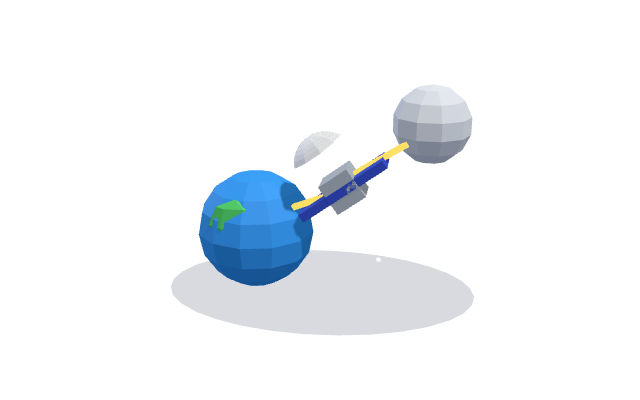
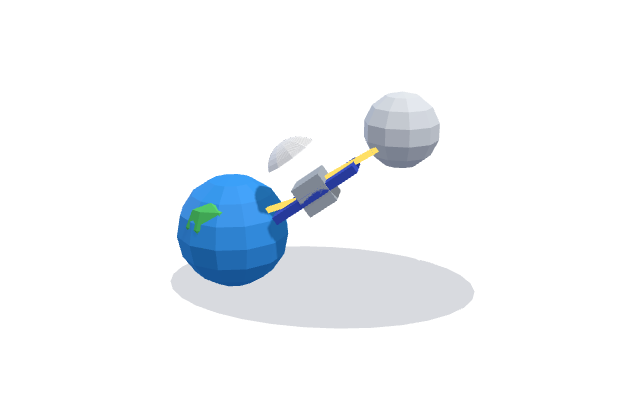
Add 화투 짝맞추기: big hand-drawn hwatu cards, preview, hints, gentle timer

diff --git a/hwatu.html b/hwatu.html
@@ -1,0 +1,220 @@
+<!doctype html>
+<html lang="ko">
+<head>
+<meta charset="utf-8">
+<meta name="viewport" content="width=device-width,initial-scale=1,maximum-scale=1,user-scalable=no">
+<title>화투 짝맞추기</title>
+<script src="common.js?v=19"></script>
+<style>
+  html,body{margin:0;height:100%;overflow:hidden;background:#1f4d2b;
+    user-select:none;-webkit-user-select:none;touch-action:manipulation;-webkit-tap-highlight-color:transparent}
+  canvas{display:block}
+  .hud-score{font-size:56px}
+  #bar{position:fixed;left:50%;transform:translateX(-50%);top:max(108px,calc(env(safe-area-inset-top) + 100px));z-index:3;display:flex;gap:10px;align-items:center;pointer-events:none}
+  #bar .pill{font:20px "Jua",sans-serif}
+  #time{min-width:92px;text-align:center} #time.low{background:#ff6b6b;color:#fff}
+  #hint{position:fixed;right:max(16px,env(safe-area-inset-right));bottom:max(18px,env(safe-area-inset-bottom));z-index:4;border:0;border-radius:18px;padding:14px 20px;font:22px "Jua",sans-serif;background:#ffd43b;color:#5c3a00;box-shadow:0 5px 0 #c98a00;cursor:pointer}
+  #hint:active{transform:translateY(3px);box-shadow:0 2px 0 #c98a00} #hint:disabled{opacity:.4}
+  #say{position:fixed;left:50%;top:50%;transform:translate(-50%,-50%);z-index:5;pointer-events:none;font:clamp(34px,9vw,60px) "Jua",sans-serif;color:#fff;text-shadow:0 4px 0 #8b1e1e,0 0 24px rgba(0,0,0,.4);opacity:0;white-space:nowrap}
+  #say.show{animation:sy 1.2s ease-out}
+  @keyframes sy{0%{opacity:0;transform:translate(-50%,-50%) scale(1.6)}15%{opacity:1;transform:translate(-50%,-50%) scale(1)}80%{opacity:1}100%{opacity:0}}
+</style>
+</head>
+<body>
+<div class="hud">
+  <div id="score" class="hud-score">0<small>점</small></div>
+</div>
+<div id="bar" class="hud-ctl"><span class="pill" id="stage">1단계</span><span class="pill dark" id="time">⏱ 60</span><span class="pill" id="left">남은 짝 6</span></div>
+<button id="hint" class="hud-ctl">💡 힌트 3</button>
+<div id="say"></div>
+<div class="screen" id="center"></div>
+
+<script type="module">
+import * as THREE from 'https://cdn.jsdelivr.net/npm/three@0.160.0/build/three.module.js';
+const $ = id => document.getElementById(id);
+const shuffle = a => { for (let i = a.length - 1; i > 0; i--) { const j = (Math.random() * (i + 1)) | 0; [a[i], a[j]] = [a[j], a[i]]; } return a; };
+
+// ---------- our own hand-drawn hwatu faces (12 months, two variants each) ----------
+const MONTHS = [
+  { n: 1, name: '송학', col: '#2b8a3e' }, { n: 2, name: '매조', col: '#e64980' }, { n: 3, name: '벚꽃', col: '#f783ac' }, { n: 4, name: '흑싸리', col: '#343a40' },
+  { n: 5, name: '난초', col: '#7048e8' }, { n: 6, name: '모란', col: '#c92a2a' }, { n: 7, name: '홍싸리', col: '#e03131' }, { n: 8, name: '공산', col: '#495057' },
+  { n: 9, name: '국화', col: '#f59f00' }, { n: 10, name: '단풍', col: '#d9480f' }, { n: 11, name: '오동', col: '#1c1c24' }, { n: 12, name: '비', col: '#1971c2' },
+];
+const W = 256, H = 384;
+function flower(g, x, y, r, petal, center, n = 5) {
+  g.fillStyle = petal; for (let i = 0; i < n; i++) { const a = i / n * Math.PI * 2; g.beginPath(); g.ellipse(x + Math.cos(a) * r * .55, y + Math.sin(a) * r * .55, r * .5, r * .32, a, 0, 7); g.fill(); }
+  g.fillStyle = center; g.beginPath(); g.arc(x, y, r * .25, 0, 7); g.fill();
+}
+function branch(g, pts, w = 10, c = '#5c3a21') { g.strokeStyle = c; g.lineWidth = w; g.lineCap = 'round'; g.beginPath(); g.moveTo(...pts[0]); for (const p of pts.slice(1)) g.lineTo(...p); g.stroke(); }
+function ribbon(g, txt) {   // red poem ribbon (띠) for the second variant
+  g.save(); g.translate(150, 70); g.rotate(.12); g.fillStyle = '#e03131'; g.fillRect(-18, 0, 36, 170); g.fillStyle = '#fff3bf'; g.font = 'bold 26px serif'; g.textAlign = 'center';
+  [...txt].forEach((ch, i) => g.fillText(ch, 0, 34 + i * 34)); g.restore();
+}
+function drawFace(m, v) {
+  const c = document.createElement('canvas'); c.width = W; c.height = H; const g = c.getContext('2d');
+  g.fillStyle = '#1c1c24'; g.fillRect(0, 0, W, H); g.fillStyle = '#fbf3df'; g.fillRect(10, 10, W - 20, H - 20);
+  const k = m.n;
+  if (k === 1) { g.fillStyle = '#e03131'; g.beginPath(); g.arc(180, 80, 42, 0, 7); g.fill(); branch(g, [[60, 300], [90, 200], [80, 120]], 14); for (let i = 0; i < 4; i++) { g.fillStyle = i % 2 ? '#2b8a3e' : '#37b24d'; g.beginPath(); g.moveTo(40 + i * 10, 250 - i * 45); g.lineTo(150 + i * 5, 250 - i * 45); g.lineTo(95, 200 - i * 45); g.fill(); } }
+  if (k === 2) { branch(g, [[30, 300], [120, 200], [210, 120]], 12); [[120, 200], [170, 150], [80, 250], [205, 115]].forEach(([x, y]) => flower(g, x, y, 34, '#f06595', '#ffd43b')); if (!v) { g.fillStyle = '#fab005'; g.beginPath(); g.ellipse(80, 130, 30, 18, -.4, 0, 7); g.fill(); } }
+  if (k === 3) { for (let i = 0; i < 9; i++) flower(g, 50 + (i % 3) * 75, 90 + Math.floor(i / 3) * 60, 30, '#ffc9de', '#f783ac'); g.fillStyle = '#c92a2a'; g.fillRect(30, 260, 196, 50); g.fillStyle = '#ffd43b'; for (let i = 0; i < 5; i++) g.fillRect(40 + i * 38, 270, 18, 30); }
+  if (k === 4) { branch(g, [[200, 30], [190, 140]], 8, '#343a40'); for (let i = 0; i < 7; i++) { g.fillStyle = '#212529'; g.beginPath(); g.ellipse(90 + (i % 2) * 60, 70 + i * 34, 30, 12, .6, 0, 7); g.fill(); } }
+  if (k === 5) { for (let i = 0; i < 4; i++) { g.strokeStyle = '#2f9e44'; g.lineWidth = 8; g.beginPath(); g.moveTo(60 + i * 45, 320); g.quadraticCurveTo(50 + i * 45, 200, 80 + i * 40, 90); g.stroke(); } [[90, 120], [170, 160]].forEach(([x, y]) => flower(g, x, y, 38, '#845ef7', '#ffd43b', 3)); }
+  if (k === 6) { flower(g, 128, 160, 80, '#e03131', '#ffd43b', 6); flower(g, 128, 160, 46, '#ff8787', '#ffd43b', 6); for (const s of [-1, 1]) { g.fillStyle = '#2b8a3e'; g.beginPath(); g.ellipse(128 + s * 70, 270, 50, 22, s * .5, 0, 7); g.fill(); } }
+  if (k === 7) { branch(g, [[40, 330], [120, 200], [190, 80]], 7, '#862e9c'); for (let i = 0; i < 12; i++) { g.fillStyle = '#e03131'; g.beginPath(); g.arc(60 + Math.random() * 140, 80 + Math.random() * 200, 10, 0, 7); g.fill(); } }
+  if (k === 8) { g.fillStyle = v ? '#ced4da' : '#e9ecef'; g.fillRect(10, 10, W - 20, 200); g.fillStyle = '#fff'; g.beginPath(); g.arc(128, 110, 64, 0, 7); g.fill(); g.strokeStyle = '#adb5bd'; g.lineWidth = 4; g.stroke(); g.fillStyle = '#1c1c24'; g.beginPath(); g.moveTo(10, 260); g.quadraticCurveTo(128, 160, 246, 260); g.lineTo(246, 374); g.lineTo(10, 374); g.fill(); }
+  if (k === 9) { [[128, 140, 70], [70, 250, 40], [190, 260, 40]].forEach(([x, y, r]) => { flower(g, x, y, r, '#fab005', '#e8590c', 12); flower(g, x, y, r * .6, '#ffd43b', '#e8590c', 10); }); }
+  if (k === 10) { const leaf = (x, y, s) => { g.fillStyle = '#e8590c'; g.beginPath(); for (let i = 0; i < 5; i++) { const a = -Math.PI / 2 + (i - 2) * .55; g.lineTo(x + Math.cos(a) * s, y + Math.sin(a) * s); g.lineTo(x + Math.cos(a + .27) * s * .45, y + Math.sin(a + .27) * s * .45); } g.lineTo(x, y + s * .3); g.fill(); };
+    [[80, 120, 50], [170, 100, 44], [120, 220, 56], [190, 270, 40], [60, 290, 38]].forEach(p => leaf(...p)); }
+  if (k === 11) { for (let i = 0; i < 3; i++) { g.fillStyle = '#1c1c24'; g.beginPath(); g.ellipse(80 + i * 50, 200 - (i % 2) * 40, 60, 40, i * .4, 0, 7); g.fill(); } g.fillStyle = '#ffd43b'; g.beginPath(); g.arc(180, 300, 20, 0, 7); g.fill(); }
+  if (k === 12) { g.fillStyle = '#4c6ef5'; g.fillRect(10, 10, W - 20, H - 20); g.fillStyle = '#fbf3df'; g.fillRect(10, 250, W - 20, 124); g.strokeStyle = '#2b8a3e'; g.lineWidth = 6; for (let i = 0; i < 6; i++) { g.beginPath(); g.moveTo(40 + i * 35, 20); g.quadraticCurveTo(30 + i * 35, 150, 60 + i * 30, 250); g.stroke(); }
+    g.fillStyle = '#ffd43b'; g.beginPath(); g.arc(120, 250, 46, Math.PI, 0); g.fill(); g.fillRect(118, 250, 4, 60); }
+  if (v && k !== 8 && k !== 12) ribbon(g, ['솔', '매', '벚', '흑', '난', '모', '홍', '공', '국', '단', '오', '비'][k - 1] + '띠');
+  // big month label at the bottom so it's easy to read
+  g.fillStyle = 'rgba(28,28,36,.86)'; g.fillRect(10, H - 74, W - 20, 64); g.fillStyle = '#fff'; g.font = 'bold 40px "Jua", sans-serif'; g.textAlign = 'center'; g.fillText(`${k}월 ${m.name}`, W / 2, H - 28);
+  const tex = new THREE.CanvasTexture(c); tex.colorSpace = THREE.SRGBColorSpace; tex.anisotropy = 4; return tex;
+}
+const backTex = (() => { const c = document.createElement('canvas'); c.width = W; c.height = H; const g = c.getContext('2d'); g.fillStyle = '#7a1414'; g.fillRect(0, 0, W, H); g.fillStyle = '#b22222'; g.fillRect(14, 14, W - 28, H - 28);
+  g.strokeStyle = 'rgba(255,220,180,.25)'; g.lineWidth = 3; for (let i = -H; i < W + H; i += 26) { g.beginPath(); g.moveTo(i, 14); g.lineTo(i + H, H); g.stroke(); }
+  const t = new THREE.CanvasTexture(c); t.colorSpace = THREE.SRGBColorSpace; return t; })();
+const FACES = MONTHS.map(m => [drawFace(m, 0), drawFace(m, 1)]);
+
+// ---------- three: green blanket table, top-down ----------
+const renderer = new THREE.WebGLRenderer({ antialias: true });
+renderer.setPixelRatio(Math.min(devicePixelRatio, 2)); renderer.setSize(innerWidth, innerHeight); renderer.outputColorSpace = THREE.SRGBColorSpace; renderer.shadowMap.enabled = true;
+document.body.appendChild(renderer.domElement);
+const scene = new THREE.Scene(); scene.background = new THREE.Color(0x173d22);
+const camera = new THREE.PerspectiveCamera(40, innerWidth / innerHeight, .1, 100);
+scene.add(new THREE.HemisphereLight(0xffffff, 0x2b5a35, 1.4));
+const key = new THREE.DirectionalLight(0xffffff, 1.3); key.position.set(2, 10, 4); key.castShadow = true; key.shadow.mapSize.set(1024, 1024); Object.assign(key.shadow.camera, { left: -8, right: 8, top: 8, bottom: -8 }); scene.add(key);
+{ const c = document.createElement('canvas'); c.width = c.height = 256; const g = c.getContext('2d'); g.fillStyle = '#2f6b3a'; g.fillRect(0, 0, 256, 256);
+  for (let i = 0; i < 4000; i++) { g.fillStyle = `rgba(${Math.random() < .5 ? '255,255,255' : '0,0,0'},${Math.random() * .06})`; g.fillRect(Math.random() * 256, Math.random() * 256, 2, 2); }
+  const t = new THREE.CanvasTexture(c); t.wrapS = t.wrapT = THREE.RepeatWrapping; t.repeat.set(6, 6);
+  const mat = new THREE.Mesh(new THREE.PlaneGeometry(30, 30), new THREE.MeshStandardMaterial({ map: t, roughness: 1 })); mat.rotation.x = -Math.PI / 2; mat.receiveShadow = true; scene.add(mat); }
+const CW = 1.1, CH = 1.65;
+const edgeMat = new THREE.MeshStandardMaterial({ color: 0x1c1c24 }), backMat = new THREE.MeshStandardMaterial({ map: backTex, roughness: .6 });
+let cards = [];
+function makeCard(month, variant) {
+  const g = new THREE.Group();
+  const m = new THREE.Mesh(new THREE.BoxGeometry(CW, .045, CH), [edgeMat, edgeMat, new THREE.MeshStandardMaterial({ map: FACES[month][variant], roughness: .55 }), backMat, edgeMat, edgeMat]);
+  m.castShadow = true; m.receiveShadow = true; g.add(m); scene.add(g);
+  return { g, m, month, up: false, flipT: 1, from: Math.PI, to: Math.PI, matched: false, lift: 0 };
+}
+function layout(n) {   // columns/rows for n cards, sized to the screen
+  const portrait = innerWidth < innerHeight;
+  const cols = portrait ? (n <= 12 ? 3 : 4) : (n <= 12 ? 4 : n <= 16 ? 4 : n <= 20 ? 5 : 6), rows = Math.ceil(n / cols);
+  return { cols, rows };
+}
+let grid = { cols: 4, rows: 3 };
+function placeCards() {
+  grid = layout(cards.length); const gx = CW + .22, gz = CH + .22;
+  cards.forEach((c, i) => { const col = i % grid.cols, row = Math.floor(i / grid.cols); c.g.position.set((col - (grid.cols - 1) / 2) * gx, 0, (row - (grid.rows - 1) / 2) * gz + .3); });
+  fitCamera();
+}
+function fitCamera() {
+  camera.aspect = innerWidth / innerHeight; camera.updateProjectionMatrix();
+  const w = grid.cols * (CW + .22) + .6, h = grid.rows * (CH + .22) + 3.6, vh = 2 * Math.tan(THREE.MathUtils.degToRad(camera.fov / 2));
+  const d = Math.max(h / vh, w / (vh * camera.aspect)) * 1.04;
+  camera.position.set(0, d, d * .12 - .5); camera.lookAt(0, 0, -.4);   // shift the grid below the HUD
+}
+addEventListener('resize', () => { renderer.setSize(innerWidth, innerHeight); placeCards(); });
+
+// ---------- game ----------
+let state = 'ready', stage = 0, score = 0, timeLeft = 60, open = [], busy = false, pairsLeft = 0, combo = 0, hints = 3, overAt = 0, preview = 0, misses = 0;
+let best = 0; try { best = +localStorage.getItem('hwatu-best') || 0; } catch {}
+const showScreen = html => { $('center').innerHTML = html; $('center').style.display = ''; };
+showScreen(Arcade.titleScreen({ emoji: '🎴', title: '화투 짝맞추기', how: [
+  ['🎴', '같은 <b>달(월)</b> 화투 두 장을 찾아 뒤집어요'],
+  ['👀', '처음 몇 초 동안 모든 패를 보여드려요. 잘 기억하세요!'],
+  ['💡', '막히면 <b>힌트</b> 버튼 (단계마다 3번)'],
+  ['⏱', '시간 안에 다 맞추면 다음 단계. 천천히, 차근차근!'],
+], cta: '시작하기' }));
+const PAIRS = [6, 8, 10, 12, 12];
+function updateHud() {
+  $('score').innerHTML = `${score}<small>점</small>`; $('stage').textContent = `${stage + 1}단계`;
+  $('left').textContent = `남은 짝 ${pairsLeft}`; $('hint').textContent = `💡 힌트 ${hints}`; $('hint').disabled = hints <= 0 || state !== 'playing';
+}
+function say(t) { const e = $('say'); e.textContent = t; e.classList.remove('show'); void e.offsetWidth; e.classList.add('show'); }
+function flip(c, up) { c.from = c.g.rotation.z; c.to = up ? 0 : Math.PI; c.flipT = 0; c.up = up; }
+function setupStage() {
+  cards.forEach(c => scene.remove(c.g)); cards = []; open = []; busy = false; combo = 0; hints = 3;
+  const n = PAIRS[Math.min(stage, PAIRS.length - 1)], months = shuffle([...Array(12).keys()]).slice(0, n);
+  const deck = shuffle(months.flatMap(m => [makeCard(m, 0), makeCard(m, 1)]));
+  cards = deck; pairsLeft = n; placeCards();
+  cards.forEach(c => { c.g.rotation.z = 0; c.up = true; c.to = 0; c.flipT = 1; });   // face up for the preview
+  preview = Math.max(3, 5 - stage * .5); timeLeft = 45 + n * 7 - stage * 4;
+  state = 'preview'; updateHud(); say('잘 보세요! 👀');
+}
+function startPlay() { state = 'playing'; cards.forEach(c => flip(c, false)); Arcade.sfx.whoosh(); updateHud(); say('시작!'); }
+function pick(c) {
+  if (state !== 'playing' || busy || c.up || c.matched) return;
+  flip(c, true); open.push(c); Arcade.sfx.thud(); Arcade.vibrate(15);
+  if (open.length < 2) return;
+  const [a, b] = open; busy = true;
+  if (a.month === b.month) {
+    setTimeout(() => {
+      a.matched = b.matched = true; open = []; busy = false; combo++; pairsLeft--;
+      const pts = 100 + (combo - 1) * 50; score += pts; Arcade.sfx.coin(); Arcade.vibrate([20, 30, 40]);
+      say(combo >= 2 ? `${combo}연속! 착착! +${pts}` : `짝! +${pts}`);
+      if (pairsLeft === 0) stageClear();
+      updateHud();
+    }, 380);
+  } else {
+    misses++; combo = 0;
+    setTimeout(() => { flip(a, false); flip(b, false); open = []; busy = false; Arcade.sfx.tap(); }, 1000);   // a full second to look before they turn back
+  }
+}
+function stageClear() {
+  state = 'clear'; const bonus = Math.round(timeLeft) * 10; score += bonus;
+  Arcade.sfx.fanfare(); Arcade.confetti({ y: innerHeight * .4, count: 90, emoji: ['🎴', '🌸', '🍁', '🌕'] });
+  say(`${stage + 1}단계 성공! 남은 시간 보너스 +${bonus}`); updateHud();
+  setTimeout(() => { stage++; setupStage(); }, 2200);
+}
+function finish() {
+  state = 'over'; overAt = performance.now();
+  const isBest = score > best; if (isBest) { best = score; try { localStorage.setItem('hwatu-best', best); } catch {} }
+  isBest && score > 0 ? Arcade.sfx.fanfare() : Arcade.sfx.fail();
+  const msg = stage >= 4 ? '기억력이 청춘이시네요!' : stage >= 2 ? '아주 잘하셨어요!' : '천천히 다시 해봐요';
+  showScreen(Arcade.resultScreen({ emoji: '🎴', label: '화투 짝맞추기', score, unit: '점', msg, rows: [['도달 단계', `${stage + 1}단계`], ['틀린 횟수', `${misses}번`]], isBest: isBest && score > 0, best }));
+  Arcade.gameOver(score);
+}
+function start() { score = 0; stage = 0; misses = 0; $('center').style.display = 'none'; setupStage(); }
+$('hint').addEventListener('pointerdown', e => {
+  e.stopPropagation(); if (state !== 'playing' || hints <= 0 || busy) return;
+  const rest = cards.filter(c => !c.matched && !c.up); if (!rest.length) return;
+  const m = rest[0].month, pair = rest.filter(c => c.month === m); hints--; updateHud();
+  pair.forEach(c => { c.hint = 1.2; }); Arcade.sfx.ding();
+});
+// picking with a raycaster (generous: the whole card is the target)
+const ray = new THREE.Raycaster(), ndc = new THREE.Vector2();
+addEventListener('pointerdown', e => {
+  if (e.target.closest?.('.arcade-btn, #hint')) return;
+  if (state === 'ready') return start();
+  if (state === 'over') { if (performance.now() - overAt > 1000 && !Arcade.inRun()) start(); return; }
+  ndc.set(e.clientX / innerWidth * 2 - 1, -(e.clientY / innerHeight) * 2 + 1); ray.setFromCamera(ndc, camera);
+  const hit = ray.intersectObjects(cards.map(c => c.m))[0]; if (hit) pick(cards.find(c => c.m === hit.object));
+});
+addEventListener('keydown', e => { if ((e.code === 'Space' || e.code === 'Enter') && (state === 'ready' || state === 'over')) { e.preventDefault(); if (state === 'ready') start(); else if (performance.now() - overAt > 1000 && !Arcade.inRun()) start(); } });
+window.__hwatu = { get state() { return state; }, get cards() { return cards; }, pick, get score() { return score; } };
+
+// idle: a few cards fanned out on the blanket behind the title
+cards = shuffle([...Array(12).keys()]).slice(0, 6).flatMap(m => [makeCard(m, 0), makeCard(m, 1)]); placeCards(); cards.forEach((c, i) => { c.g.rotation.z = i % 3 ? Math.PI : 0; c.to = c.g.rotation.z; });
+
+let last = performance.now();
+function frame(now) {
+  const dt = Math.min(.05, (now - last) / 1000); last = now; const t = now / 1000;
+  if (state === 'preview') { preview -= dt; if (preview <= 0) startPlay(); }
+  if (state === 'playing') { timeLeft -= dt; if (timeLeft <= 0) { timeLeft = 0; finish(); } }
+  $('time').textContent = `⏱ ${Math.ceil(Math.max(0, timeLeft))}`; $('time').classList.toggle('low', state === 'playing' && timeLeft < 10);
+  for (const c of cards) {
+    if (c.flipT < 1) { c.flipT = Math.min(1, c.flipT + dt * 3.2); const e = c.flipT < .5 ? 2 * c.flipT * c.flipT : 1 - Math.pow(-2 * c.flipT + 2, 2) / 2; c.g.rotation.z = c.from + (c.to - c.from) * e; c.g.position.y = Math.sin(c.flipT * Math.PI) * .6; }
+    else c.g.position.y = c.matched ? .08 + Math.sin(t * 3 + c.month) * .03 : 0;
+    if (c.matched) c.m.material[2].emissive?.setHex(0x332200);
+    if (c.hint > 0) { c.hint -= dt; c.g.position.y = .25 + Math.abs(Math.sin(t * 10)) * .15; }   // hinted pair hops
+  }
+  renderer.render(scene, camera);
+  requestAnimationFrame(frame);
+}
+requestAnimationFrame(frame);
+</script>
+</body>
+</html>

diff --git a/thumbs/models.js b/thumbs/models.js
@@ -211,6 +211,14 @@ export const M = {
     cyl(.28, .28, .05, 0xffffff, -.1, -1.05, .7, 0, 0, 0, G, 16); [0xffffff, 0xb2f2bb, 0xffc9de].forEach((c, i) => { const s2 = sph(.07, c, -.2 + i * .1, -1, .7, G, 8, 6); s2.scale.set(1.4, .8, .9); });
     return t => { b.scale.setScalar(1 + Math.abs(Math.sin(t * 5)) * .08); g.rotation.z = Math.sin(t * 6) * .05; k.position.y = -1.1 - Math.abs(Math.sin(t * 2)) * .05; sw.position.y = 1.1 - (t * .6 % .5); };
   },
+  hwatu() {   // fanned hwatu cards on a green blanket
+    box(2.6, .05, 1.8, 0x2f6b3a, 0, -.6, 0);
+    const cols = [[0xfbf3df, 0x2b8a3e, 0xe03131], [0xfbf3df, 0xe64980, 0xffd43b], [0xb22222, 0xb22222, 0xb22222], [0xfbf3df, 0x495057, 0xffffff]];
+    const cs = cols.map((c, i) => { const g = grp(-.75 + i * .5, -.5 + i * .02, .1 - i * .05); g.rotation.set(-1.2, 0, (i - 1.5) * .18);
+      box(.62, .92, .03, 0x1c1c24, 0, 0, 0, 0, 0, 0, g); box(.54, .84, .035, c[0], 0, 0, 0, 0, 0, 0, g);
+      if (c[0] !== 0xb22222) { sph(.12, c[2], .08, .2, .03, g, 8, 6).scale.z = .2; box(.4, .1, .04, c[1], 0, -.25, 0, 0, 0, 0, g); } return g; });
+    return t => { cs.forEach((g, i) => { g.position.y = -.5 + i * .02 + Math.max(0, Math.sin(t * 2.5 - i * .7)) * .25; g.rotation.z = (i - 1.5) * .18 + Math.sin(t * 2 + i) * .04; }); };
+  },
   dice() {   // random-play die: rounded white cube with pips
     const d = grp(); d.rotation.set(.55, .75, .1);
     const g = new THREE.BoxGeometry(1.6, 1.6, 1.6, 10, 10, 10), p = g.attributes.position, v = new THREE.Vector3(), cl = new THREE.Vector3(), A = .56, RR = .24;

diff --git a/common.js b/common.js
@@ -49,6 +49,8 @@
       desc: '광고·쿠키·앱설치·로봇인증… 방해요소를 다 닫고 품절 전에 구매하기' },
     { id: 'nag', file: 'nag.html', name: '명절 잔소리 대작전', emoji: '🧧', unit: '번', bestKey: 'nag-best',
       desc: '내가 잔소리하는 쪽! 친척 프로필을 보고 딱 맞는 잔소리를 시간 안에 날리기' },
+    { id: 'hwatu', file: 'hwatu.html', name: '화투 짝맞추기', emoji: '🎴', unit: '점', bestKey: 'hwatu-best',
+      desc: '같은 달 화투 두 장을 찾아라! 큼직한 패로 천천히 즐기는 기억력 게임' },
   ];
 
   const q = new URLSearchParams(location.search);
